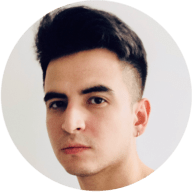
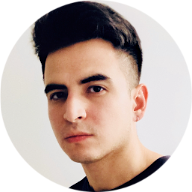
New design

diff --git a/main.sass b/main.sass
@@ -8,40 +8,114 @@ $font: Interr, sans-serif
 
 $black: #{var(--neutral-950)}
 $white: #{var(--neutral-50)}
+$indigo-900: #{var(--indigo-900)}
+$indigo-600: #{var(--indigo-600)}
+$indigo-400: #{var(--indigo-400)}
+
 
 body
   background-color: $black
   margin: 0
-  padding-top: 2.5em
-  padding-left: 1.34em
-  padding-right: 1.34em
+  padding: 0
   font-family: $font
-  font-size: 20px
-  font-weight: 300
-  line-height: 135%
+  font-size: 18px
+  font-weight: 200
+  line-height: 150%
+  text-rendering: optimizeLegibility
   color: $white
 
 h1
   font-size: 20pt
-  font-weight: 500
+  font-weight: 800
+  margin-bottom: 12pt
+  margin-top: 0
 
-img.userpic
-  float:left
-  width: 4em
-  height: 4em
+p
+  margin-top: 0
+
+a
+  color: $indigo-600
+  text-decoration: none
+  border-bottom: 1px solid $indigo-900
+  padding-bottom: 2px
+
+a:hover
+  border: 0
+  background-color: $indigo-900
+  cursor: pointer
+
+a.email b
+  display: none
+
+a.cta_button
+  display: inline-block
+  background-color: oklch(30.08% 0 0)
+  color: $white
+  font-weight: 500
+  border: 0
+  border-radius: 4px
+  padding: 0.54em 0.45em 0.54em 0.45em
+  font-size: 120%
+  transition: .2s ease-in
+  text-align: center
+
+a.cta_button:hover
+  background-color: oklch(41.21% 0 0)
+  
+a.imglink
+  text-decoration: none
+  border: 0
+  padding-bottom: 0
+
+a.imglink:hover
+  background-color: none
+
+.userpic
+  display: inline-block
+  width: 3.6em
+  height: 3.6em
   border-radius: 100%
+  background-image: url("/assets/i/userpic.jpg")
+  background-size: cover
+  margin-bottom: 1.45em
+  border: 0
 
 .container
-  max-width: 66%
+  width: 95%
+  max-width: 1400px
   margin: auto auto
-  display: flex
-  flex-flow: row wrap
-  row-gap: 1.43em
-  column-gap: 1.43em
+  padding-top: 2.45em
+  display: grid
+  grid-template-columns: 16em minmax(0, auto) 16em
+  grid-template-rows: 1fr
+  grid-column-gap: 1.8em
 
-.whole
-  flex-grow: 2
+.menu
+  grid-column: 2
 
-.half
-  min-width: 20em
-  flex-grow: 1
+.content
+  grid-column: 2
+  word-wrap: break-word
+
+.container > aside
+  grid-column: 3
+
+@media (max-width: 1200px)
+  .container
+    max-width: 90%
+    min-width: 0
+    grid-template-columns: 0 100%
+    grid-column-gap: 0
+
+@media (min-width: 1200px)
+  .container > aside
+    position: sticky
+    top: 2.5em
+    align-self: start
+
+.menu
+  position: fixed
+  padding-top: 2.45em
+  width: 16em
+  height: 100vh
+  top: 0

diff --git a/index.html b/index.html
@@ -2,3 +2,19 @@
 permalink: /
 title: Daniel Verdugo
 ---
+
+<div class="container">
+    <header class="menu">
+        <a href="/" class="userpic"><div class="userpic"></div></a>
+        <h1>Daniel Verdugo</h1>
+        <p>Digital product designer with 8+&nbsp;years of&nbsp;experience</p>
+        <p>Get in&nbsp;touch<br><a class="email" href="mailto:%64%61%6e%69%65%6c%40%76%65%72%64%75%67%6f%2e%61%72?Subject=Hello">daniel@verdugo<b>.example</b>.ar</a></p>
+        <p>In&nbsp;messengers<br><a href="tel:+5491127279295">+54&nbsp;911&nbsp;2727&ndash;9295</a></p>
+        <p>&nbsp;</p>
+        <p><a href="https://www.linkedin.com/in/danielverdugonosov/" target="_blank">LinkedIn</a></p>
+        <p><a href="https://calendar.app.google/iWfZAs6i5fBa9LebA" target="_blank">Schedule a&nbsp;call</a></p>
+    </header>
+    <main class="content">
+        
+    </main>
+</div>

diff --git a/_sass/colors.scss b/_sass/colors.scss
@@ -10,7 +10,12 @@
     --neutral-800: #4b4b4b;
     --neutral-900: #2e2e2e;
     --neutral-950: #141414;
-  }
+
+    --indigo-200: #D0E7FF;
+    --indigo-400: #82BDFF;
+    --indigo-600: #4185DB;
+    --indigo-900: #112F51;
+}
   
   @supports (color: oklch(0% 0 0)) {
     @media (color-gamut: p3) {
@@ -26,7 +31,12 @@
         --neutral-800: oklch(0.412109 0 0);
         --neutral-900: oklch(0.300781 0 0);
         --neutral-950: oklch(0.193359 0 0);
+
+        --indigo-200: oklch(91.8% 0.04 260);
+        --indigo-400: oklch(78.91% 0.11 260);
+        --indigo-600: oklch(61.33% 0.14 260);
+        --indigo-900: oklch(30.08% 0.07 260);
       }
     }
   }
-  
+

diff --git a/_includes/footer.html b/_includes/footer.html
@@ -1,8 +1,4 @@
 
-</main>
-<footer>
- 
-</footer>
 <script>
     var append=function(a,t,e,n,d){var r=document.createElement(t);e&&r.setAttribute(e[0],e[1]),n&&r.setAttribute(n[0],n[1]),d&&r.setAttribute(d[0],d[1]),document.getElementsByTagName(a)[0].appendChild(r)};
     document.addEventListener("DOMContentLoaded",function(){

diff --git a/_includes/header.html b/_includes/header.html
@@ -30,4 +30,4 @@
     </noscript>
 </head>
 <body>
-<main>
+
